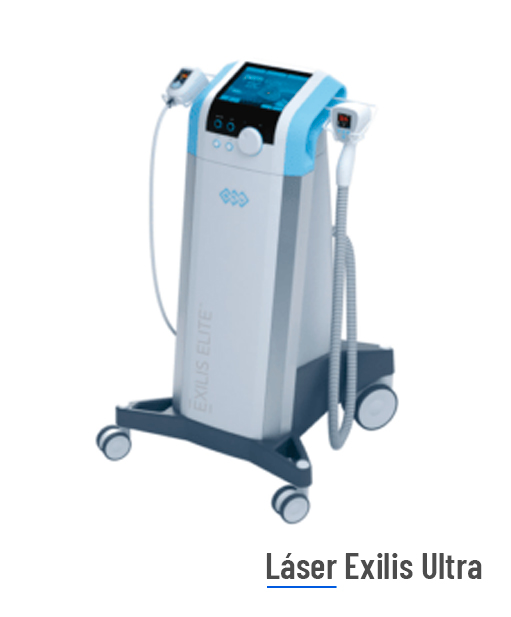
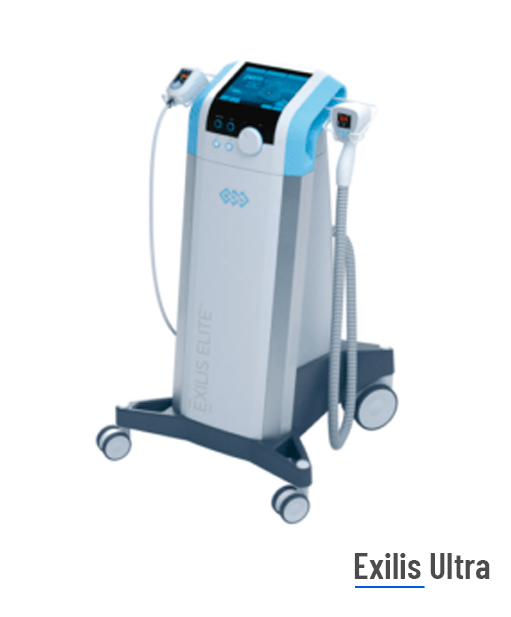
Se actualiza imagen, se corrige error de typing y se modifica horario.

Changed region(s): [[0.499, 0.893, 0.9687, 0.9546]]

diff --git a/footer.php b/footer.php
@@ -78,7 +78,7 @@
                                 <div class="witr_table">
                                     <div class="witr_sub_table">
                                         <span>Lunes - Viernes</span>
-                                        <span>09:00 - 16:30</span>
+                                        <span>09:00 - 19:00</span>
                                     </div>
                                     <div class="witr_sub_table">
                                         <span>Sabado y Domingo</span>

diff --git a/faq.php b/faq.php
@@ -7,7 +7,7 @@
                     <div class="witr_section_title">
                         <div class="witr_section_title_inner text-left">
                             <h2 class="mb-0">No te quedes con dudas</h2>
-                            <h3>Preguntas Frecuentas</h3>
+                            <h3>Preguntas Frecuentes</h3>
                         </div>
                     </div>
                     <div class="witr_single_progress">
